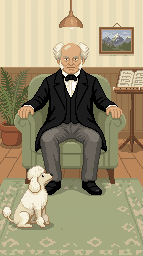
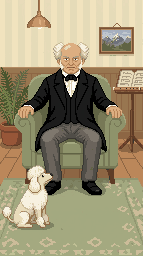
Chat scenes: lamps off the middle, breathing and a nod while talking
face_sheet.py moves Montaigne's and Seneca's lamps to the right and Schopenhauer's to the left (Socrates'
and Epictetus' already hang to one side), and writes two body poses per persona from a GrabCut mask of the
person: breathing in (head and shoulders one row up) and a nod (head one row down). The scene alternates
breathing every ~1.6 s and nods now and then while he talks; the face patch follows the pose.

Claude-Session: https://claude.ai/code/session_01CkNb4fKBKqzoVDQabCd3oK

Changed region(s): [[0.3916, 0.0, 0.5874, 0.125], [0.1678, 0.0, 0.3636, 0.125]]

diff --git a/ui/web/index.html b/ui/web/index.html
@@ -1134,18 +1134,22 @@ function fullScene(id) {
   think.innerHTML = '<div class="cloud"></div><i class="d1"></i><i class="d2"></i>';
   wrap.append(cv, think);
   const g = cv.getContext("2d");
-  const s = { meta: null, scene: null, faces: null, mood: "attentive", eyes: "open", talking: false, mouth: "open",
+  const s = { meta: null, scene: null, faces: null, poses: {}, breathIn: false, nodding: false,
+              mood: "attentive", eyes: "open", talking: false, mouth: "open",
               busy: false, queued: null, alive: true, thinking: false, reserve: 60 };
   let holdT = null;
   const wait = ms => new Promise(r => setTimeout(r, ms));
   const load = src => new Promise((res, rej) => { const i = new Image(); i.onload = () => res(i); i.onerror = rej; i.src = base + src; });
+  // Body poses (faces.json "poses"): breathing in lifts head and shoulders a row; a nod while talking
+  // drops the head a row. Each pose is its own picture; the face patch moves with it.
   function draw() {
     if (!s.faces) return;
     const m = s.meta, P = m.patch;
-    g.drawImage(s.scene, 0, 0);
+    const pose = s.nodding ? "nod" : s.breathIn ? "in" : null, pz = pose && s.poses[pose] ? m.poses[pose] : null;
+    g.drawImage(pz ? s.poses[pose] : s.scene, 0, 0);
     const col = m.frames.indexOf(s.eyes !== "open" ? s.eyes : s.talking ? s.mouth : "open");
     const row = Math.max(0, m.moods.indexOf(s.mood));
-    g.drawImage(s.faces, col * P.w, row * P.h, P.w, P.h, P.x, P.y, P.w, P.h);
+    g.drawImage(s.faces, col * P.w, row * P.h, P.w, P.h, P.x, P.y + (pz ? pz.dy : 0), P.w, P.h);
   }
   // A blink and a change of mood share one path: open, half, closed (the new face lands here), half, open.
   async function blink(next) {
@@ -1163,6 +1167,17 @@ function fullScene(id) {
     if (reduce) return;
     const T = s.meta.timing_ms, between = ([a, b]) => a + Math.random() * (b - a);
     (async () => { while (s.alive) { await wait(between(T.blink_every)); if (s.alive) await blink(); } })();
+    if (T.breath) (async () => {                                   // slow, even breathing
+      while (s.alive) { await wait(between(T.breath)); s.breathIn = !s.breathIn; if (!s.busy) draw(); }
+    })();
+    if (T.nod) (async () => {                                      // now and then a small nod while he talks
+      while (s.alive) {
+        await wait(between(T.nod_every));
+        if (!s.talking || !s.alive) continue;
+        s.nodding = true; if (!s.busy) draw();
+        await wait(T.nod); s.nodding = false; if (!s.busy) draw();
+      }
+    })();
     (async () => {
       while (s.alive) {
         await wait(between(T.talk));
@@ -1176,6 +1191,7 @@ function fullScene(id) {
     ready: (async () => {
       s.meta = await (await fetch(base + "faces.json")).json();
       [s.scene, s.faces] = await Promise.all([load("scene.png"), load("faces.png")]);
+      for (const [k, v] of Object.entries(s.meta.poses || {})) load(v.src).then(i => { s.poses[k] = i; }).catch(() => {});
       cv.width = s.meta.grid[0]; cv.height = s.meta.grid[1];
       api.layout(); draw(); loops();
       if (stage === api) { chat.classList.add("snap"); fullApply(); requestAnimationFrame(() => requestAnimationFrame(() => { chat.classList.remove("snap"); scrollDown(); })); }

diff --git a/ui/web/template.html b/ui/web/template.html
@@ -1134,18 +1134,22 @@ function fullScene(id) {
   think.innerHTML = '<div class="cloud"></div><i class="d1"></i><i class="d2"></i>';
   wrap.append(cv, think);
   const g = cv.getContext("2d");
-  const s = { meta: null, scene: null, faces: null, mood: "attentive", eyes: "open", talking: false, mouth: "open",
+  const s = { meta: null, scene: null, faces: null, poses: {}, breathIn: false, nodding: false,
+              mood: "attentive", eyes: "open", talking: false, mouth: "open",
               busy: false, queued: null, alive: true, thinking: false, reserve: 60 };
   let holdT = null;
   const wait = ms => new Promise(r => setTimeout(r, ms));
   const load = src => new Promise((res, rej) => { const i = new Image(); i.onload = () => res(i); i.onerror = rej; i.src = base + src; });
+  // Body poses (faces.json "poses"): breathing in lifts head and shoulders a row; a nod while talking
+  // drops the head a row. Each pose is its own picture; the face patch moves with it.
   function draw() {
     if (!s.faces) return;
     const m = s.meta, P = m.patch;
-    g.drawImage(s.scene, 0, 0);
+    const pose = s.nodding ? "nod" : s.breathIn ? "in" : null, pz = pose && s.poses[pose] ? m.poses[pose] : null;
+    g.drawImage(pz ? s.poses[pose] : s.scene, 0, 0);
     const col = m.frames.indexOf(s.eyes !== "open" ? s.eyes : s.talking ? s.mouth : "open");
     const row = Math.max(0, m.moods.indexOf(s.mood));
-    g.drawImage(s.faces, col * P.w, row * P.h, P.w, P.h, P.x, P.y, P.w, P.h);
+    g.drawImage(s.faces, col * P.w, row * P.h, P.w, P.h, P.x, P.y + (pz ? pz.dy : 0), P.w, P.h);
   }
   // A blink and a change of mood share one path: open, half, closed (the new face lands here), half, open.
   async function blink(next) {
@@ -1163,6 +1167,17 @@ function fullScene(id) {
     if (reduce) return;
     const T = s.meta.timing_ms, between = ([a, b]) => a + Math.random() * (b - a);
     (async () => { while (s.alive) { await wait(between(T.blink_every)); if (s.alive) await blink(); } })();
+    if (T.breath) (async () => {                                   // slow, even breathing
+      while (s.alive) { await wait(between(T.breath)); s.breathIn = !s.breathIn; if (!s.busy) draw(); }
+    })();
+    if (T.nod) (async () => {                                      // now and then a small nod while he talks
+      while (s.alive) {
+        await wait(between(T.nod_every));
+        if (!s.talking || !s.alive) continue;
+        s.nodding = true; if (!s.busy) draw();
+        await wait(T.nod); s.nodding = false; if (!s.busy) draw();
+      }
+    })();
     (async () => {
       while (s.alive) {
         await wait(between(T.talk));
@@ -1176,6 +1191,7 @@ function fullScene(id) {
     ready: (async () => {
       s.meta = await (await fetch(base + "faces.json")).json();
       [s.scene, s.faces] = await Promise.all([load("scene.png"), load("faces.png")]);
+      for (const [k, v] of Object.entries(s.meta.poses || {})) load(v.src).then(i => { s.poses[k] = i; }).catch(() => {});
       cv.width = s.meta.grid[0]; cv.height = s.meta.grid[1];
       api.layout(); draw(); loops();
       if (stage === api) { chat.classList.add("snap"); fullApply(); requestAnimationFrame(() => requestAnimationFrame(() => { chat.classList.remove("snap"); scrollDown(); })); }

diff --git a/ui/web/tools/art/face_sheet.py b/ui/web/tools/art/face_sheet.py
@@ -12,7 +12,18 @@ Moods: attentive (the face as drawn), curious (brows up, eyes a row taller when 
 corners up, blush), skeptical (one brow up, the other's inner end down, that eye half shut), pondering
 (inner brow ends down, eyes to the side), pleased (closed smiling eyes, corners up, blush).
 
-    .venv/bin/python ui/web/tools/art/face_sheet.py [id ...]
+Before the face: the pendant lamp moves off the middle where `lamp` names a new centre column (it is the
+cells in the top 34 rows that differ from their column's wallpaper; the stripes are vertical, so each
+column's own colour fills the hole).
+
+After the face, two poses for the body (design: still art that breathes and nods):
+    scene_in.png    breathing in: the person's head and shoulders, down to `breath` row, one row up
+    scene_nod.png   a nod: the head, down to `chin` row, one row down (the wallpaper above fills the gap)
+The person is found with GrabCut (OpenCV) seeded with the face and chest as person and the sage armchair
+and rug as not, plus any black clothes joined to the chest. faces.json gives each pose's row shift so the
+page moves the face patch with it.
+
+    python3 ui/web/tools/art/face_sheet.py [id ...]       # needs opencv-python (cv2), numpy, Pillow
 """
 import json
 import sys
@@ -29,26 +40,27 @@ ROOT = HERE.parents[3]
 GRID = (143, 256)
 MOODS = ("attentive", "curious", "amused", "skeptical", "pondering", "pleased")
 FRAMES = ("open", "half", "closed", "talk1", "talk2")
-TIMING = {"half": 55, "closed": 85, "blink_every": [2800, 6500], "talk": [90, 150]}
+TIMING = {"half": 55, "closed": 85, "blink_every": [2800, 6500], "talk": [90, 150],
+          "breath": [1500, 1700], "nod_every": [1800, 4200], "nod": 260}
 
 # eyes: (x0, x1, lid row, eye row) and pupil (p0, p1), image-left eye first; brows: (x0, x1, y0, y1);
 # mouth: (row, x0, x1), the line between the lips just under the moustache, not the beard below it; lips=True draws the open mouth's lip in red (for mouths inside a dark beard)
 FACES = {
     "socrates": dict(src="socrates_restyled_gen.jpg",
                      eyes=[((64, 66, 57, 58), (65, 65)), ((74, 76, 57, 58), (75, 75))],
-                     brows=[(62, 67, 54, 56), (73, 78, 54, 56)], mouth=(67, 67, 73), lips=False),
+                     brows=[(62, 67, 54, 56), (73, 78, 54, 56)], mouth=(67, 67, 73), lips=False, breath=100, chin=84),
     "montaigne": dict(src="montaigne_restyled_gen.jpg",
                       eyes=[((63, 68, 60, 61), (66, 67)), ((73, 79, 60, 61), (76, 77))],
-                      brows=[(63, 69, 57, 58), (73, 79, 57, 58)], mouth=(68, 69, 74), lips=True),
+                      brows=[(63, 69, 57, 58), (73, 79, 57, 58)], mouth=(68, 69, 74), lips=True, breath=98, chin=76, lamp=100),
     "seneca": dict(src="seneca_restyled_gen.jpg",
                    eyes=[((64, 67, 57, 58), (65, 66)), ((74, 77, 57, 58), (75, 76))],
-                   brows=[(62, 69, 54, 56), (72, 79, 54, 56)], mouth=(67, 68, 74), lips=True),
+                   brows=[(62, 69, 54, 56), (72, 79, 54, 56)], mouth=(67, 68, 74), lips=True, breath=100, chin=82, lamp=101),
     "epictetus": dict(src="epictetus_restyled_gen.jpg",
                       eyes=[((64, 67, 57, 58), (66, 66)), ((73, 76, 57, 58), (75, 75))],
-                      brows=[(63, 68, 54, 56), (72, 78, 54, 56)], mouth=(67, 67, 74), lips=False),
+                      brows=[(63, 68, 54, 56), (72, 78, 54, 56)], mouth=(67, 67, 74), lips=False, breath=100, chin=86),
     "schopenhauer": dict(src="schopenhauer_seated_gen.jpg",
                          eyes=[((64, 67, 58, 59), (66, 66)), ((74, 77, 58, 59), (75, 75))],
-                         brows=[(62, 69, 55, 57), (72, 79, 55, 57)], mouth=(67, 68, 73), lips=False),
+                         brows=[(62, 69, 55, 57), (72, 79, 55, 57)], mouth=(67, 68, 73), lips=False, breath=98, chin=76, lamp=38),
 }
 BLUSH = (214, 140, 112)
 INSIDE = (92, 46, 38)
@@ -209,11 +221,75 @@ class Face:
         return p
 
 
+def move_lamp(base, to):
+    """the lamp: cells in rows 0-33, columns 52-91, unlike their column's wallpaper (rows 34-38)"""
+    a = base.astype(int)
+    out = base.copy()
+    cells = []
+    for x in range(52, 92):
+        col = [tuple(c) for c in base[34:39, x]]
+        bg = max(set(col), key=col.count)
+        for y in range(0, 34):
+            if np.abs(a[y, x] - bg).sum() > 30:
+                cells.append((x, y, tuple(base[y, x])))
+            out[y, x] = bg
+    xs = [x for x, _, _ in cells]
+    dx = to - round((min(xs) + max(xs)) / 2)
+    for x, y, c in cells:
+        out[y, x + dx] = c
+    return out
+
+
+def person_mask(base, P):
+    import cv2
+    S = 6
+    big = cv2.resize(base, (base.shape[1] * S, base.shape[0] * S), interpolation=cv2.INTER_NEAREST)
+    mask = np.full(big.shape[:2], cv2.GC_BGD, np.uint8)
+    mask[36 * S:200 * S, 18 * S:125 * S] = cv2.GC_PR_FGD
+    hsv = cv2.cvtColor(base, cv2.COLOR_RGB2HSV).astype(int)
+    green = (hsv[..., 0] > 30) & (hsv[..., 0] < 75) & (hsv[..., 1] > 35)
+    mask[cv2.resize(green.astype(np.uint8), big.shape[1::-1], interpolation=cv2.INTER_NEAREST).astype(bool)] = cv2.GC_BGD
+    hx0, hx1, sh = P["x"] - 5, P["x"] + P["w"] + 5, P["y"] + P["h"] + 5
+    mask[:sh * S, :hx0 * S] = cv2.GC_BGD
+    mask[:sh * S, hx1 * S:] = cv2.GC_BGD
+    mask[P["y"] * S:(P["y"] + P["h"]) * S, (P["x"] + 2) * S:(P["x"] + P["w"] - 2) * S] = cv2.GC_FGD
+    cx, yb = P["x"] + P["w"] // 2, P["y"] + P["h"]
+    mask[(yb + 4) * S:(yb + 34) * S, (cx - 8) * S:(cx + 8) * S] = cv2.GC_FGD
+    cv2.grabCut(cv2.cvtColor(big, cv2.COLOR_RGB2BGR), mask, None, np.zeros((1, 65)), np.zeros((1, 65)), 6, cv2.GC_INIT_WITH_MASK)
+    fg = ((mask == cv2.GC_FGD) | (mask == cv2.GC_PR_FGD)).astype(np.uint8)
+    m = cv2.resize(fg, base.shape[1::-1], interpolation=cv2.INTER_AREA) > 0
+    _, lab = cv2.connectedComponents(m.astype(np.uint8), connectivity=4)
+    k = lab[P["y"] + P["h"] // 2, cx]
+    if k:
+        m = lab == k
+    dark = base.astype(int).sum(2) / 3 < 55
+    dark[:yb - 2] = False
+    _, ld = cv2.connectedComponents(dark.astype(np.uint8), connectivity=4)
+    for kd in set(np.unique(ld[yb + 4:yb + 34, cx - 20:cx + 20])) - {0}:
+        if (ld == kd).sum() > 20:
+            m |= ld == kd
+    return cv2.morphologyEx(m.astype(np.uint8), cv2.MORPH_CLOSE, np.ones((3, 3), np.uint8)).astype(bool)
+
+
+def pose(base, m, top, bottom, dy):
+    """the masked cells of rows top..bottom moved dy rows (dy = -1 up, +1 down)"""
+    out = base.copy()
+    rows = range(top, bottom + 1) if dy < 0 else range(bottom, top - 1, -1)
+    for y in rows:
+        for x in np.nonzero(m[y])[0]:
+            out[y + dy, x] = base[y, x]
+            if dy > 0 and not m[y - 1, x]:          # the head's old top edge: the wallpaper above
+                out[y, x] = base[y - 1, x]
+    return out
+
+
 def build(pid):
     f = FACES[pid]
     src = np.asarray(Image.open(HERE / "sources" / f["src"]).convert("RGB")).astype(float)
     nw, nh, ox, oy = find_grid(src, [GRID[0]], [GRID[1]])
     base = np.asarray(quantize(sample(src, nw, nh, ox, oy), 48)).copy()
+    if f.get("lamp"):
+        base = move_lamp(base, f["lamp"])
     face = Face(base, f)
     xs = [e[0] for e, _ in f["eyes"]] + [e[1] for e, _ in f["eyes"]] + [b[0] for b in f["brows"]] + [b[1] for b in f["brows"]]
     x0, x1 = min(xs) - 2, max(xs) + 2
@@ -226,11 +302,16 @@ def build(pid):
     out = ROOT / f"ui/web/assets/personas/{pid}/full"
     out.mkdir(parents=True, exist_ok=True)
     Image.fromarray(base).save(out / "scene.png", optimize=True)
+    m = person_mask(base, {"x": x0, "y": y0, "w": w, "h": h})
+    top = min(y for y in range(base.shape[0]) if m[y].any())
+    Image.fromarray(pose(base, m, top, f["breath"], -1)).save(out / "scene_in.png", optimize=True)
+    Image.fromarray(pose(base, m, top, f["chin"], 1)).save(out / "scene_nod.png", optimize=True)
     Image.fromarray(sheet).save(out / "faces.png", optimize=True)
     (e0, _), (e1, _) = f["eyes"]
     meta = {"grid": list(GRID), "patch": {"x": x0, "y": y0, "w": w, "h": h}, "moods": list(MOODS), "frames": list(FRAMES),
             "anchor": {"face": [round((e0[0] + e1[1]) / 2), e0[3] + 2], "head": [x0 - 4, y0 - 14, x1 + 4, y1 + 8]},
-            "source": f["src"], "palette": 48, "timing_ms": TIMING}
+            "source": f["src"], "palette": 48, "timing_ms": TIMING,
+            "poses": {"in": {"src": "scene_in.png", "dy": -1}, "nod": {"src": "scene_nod.png", "dy": 1}}}
     (out / "faces.json").write_text(json.dumps(meta, indent=2) + "\n")
     print(pid, f"grid {nw}x{nh} offset ({ox}, {oy}) patch {(x0, y0, w, h)}")
 

diff --git a/CLAUDE.md b/CLAUDE.md
@@ -16,7 +16,7 @@ The design doc is the source of truth for scope, contracts and decisions. Read t
 - Accounts (design doc 7.10, D8 superseded on Nov 23, 2026): nickname + passcode (`app/auth.py`); users, conversation rows and notes in `app/store.py` (Postgres on Vercel, memory locally); messages stay in each thread's checkpoint. One conversation = one philosopher and one thread; the pause (FR-32) belongs to the user and covers all their conversations. The web app's Conversations tab lists them by philosopher.
 - Persona mood (design doc 7.5, `app/mood.py`): the voice model opens each reply with `<mood label intensity/>`; the tag is stripped before the quote check, smoothed across turns, stored on the reply and sent as a `mood` event. From tier 2 up, at an exit and in support mode it is locked at attentive (FR-34). The scene sprite shows it; read-aloud tone follows it (7.6). Each persona config lists its `moods`.
 - Visible thinking (design doc 7.8, FR-18, FR-36, ADR-16, `app/thinking.py`): the voice call asks for summarized adaptive thinking; the voice yields summary pieces as `Thought`, the persona node buffers them into sentences, drops any that name passages, prompts, personas, tiers or quote tags, strips quotation marks and sends each as a `thinking` event. None from tier 2 up or on the way back from support mode. Stored per turn in state and logged in the eval CSV (`thinking` column, NFR-14).
-- Full-screen chat (all five; `kbtest.html` is the layout's test page): `ui/web/assets/personas/<id>/full/` holds the scene (143 × 256), the face sheet and `faces.json`. Current art (Nov 24): Schopenhauer's first generation (`sources/schopenhauer_seated_gen.jpg`) set the style; the other four are their earlier scenes with the person redrawn in that style (`sources/<id>_restyled_gen.jpg`). `face_sheet.py` builds all five scenes and face sheets from per-persona anchors (eye boxes, brow boxes, mouth row). The earlier bust-style art is rebuilt by `socrates_scene.py` and `seated_scene.py`. The page draws the face patch (blinks, talking, moods behind a blink), floats the bubbles over the scene with the pixel dissolve, lifts the scene above the keyboard, and shows the thought bubble over the head. All five share the armchair, striped wall, wainscot and rug; each nook has its own props.
+- Full-screen chat (all five; `kbtest.html` is the layout's test page): `ui/web/assets/personas/<id>/full/` holds the scene (143 × 256), the face sheet and `faces.json`. Current art (Nov 24): Schopenhauer's first generation (`sources/schopenhauer_seated_gen.jpg`) set the style; the other four are their earlier scenes with the person redrawn in that style (`sources/<id>_restyled_gen.jpg`). `face_sheet.py` builds all five scenes and face sheets from per-persona anchors (eye boxes, brow boxes, mouth row), moves the pendant lamp off the middle where the persona's `lamp` says, and makes two body poses (`scene_in.png`: breathing in, head and shoulders a row up; `scene_nod.png`: a nod while talking) from a GrabCut mask of the person (needs `cv2`, so run it with a Python that has opencv-python). The earlier bust-style art is rebuilt by `socrates_scene.py` and `seated_scene.py`. The page draws the face patch (blinks, talking, moods behind a blink), floats the bubbles over the scene with the pixel dissolve, lifts the scene above the keyboard, and shows the thought bubble over the head. All five share the armchair, striped wall, wainscot and rug; each nook has its own props.
 - Home: a flat (no perspective) café covers the screen (`ui/web/assets/home_pano.png`, 1152 × 2184 on the sprites' 12 px grid; `ui/web/tools/art/home_pano.py` rebuilds it from `tools/art/sources/home_cafe_gen.jpg` and adds the side tables the sprites' cups rest on). Each philosopher sits in a nook furnished like his chat scene; `HOME_SEATS` in `template.html` places the team's sprites. The pixel wordmark (`assets/logo_philocafe.png`, `tools/art/logo.py`, Pixelify Sans) floats at the top; the tab bar is a wooden plank (`assets/plank.png`) with icons only.
 - Settings tab and language: the fourth bottom tab holds Sign out, Delete my café card (FR-45) and English / 中文. The café's own words go through `t()` with the `ZH` dictionary and `PH_ZH` (philosophers' names, introductions, greetings, starters, demo lines) in `template.html`; a new user-facing string needs a `ZH` entry. Changing the language reloads the page. Chinese glyphs use Zpix (`ui/web/assets/fonts/`, free for education use, may not be subset or converted; see its README).
 - Suggested next messages (design doc 7.9, FR-46, `app/suggest.py`): the voice model ends each reply with a `<next>` block of two or three things the user might say; it is held back from the stream, sent as a `suggestions` event and stored on the reply. Tapping one sends it as an ordinary message. None from tier 2 up, at an exit or in support mode.
